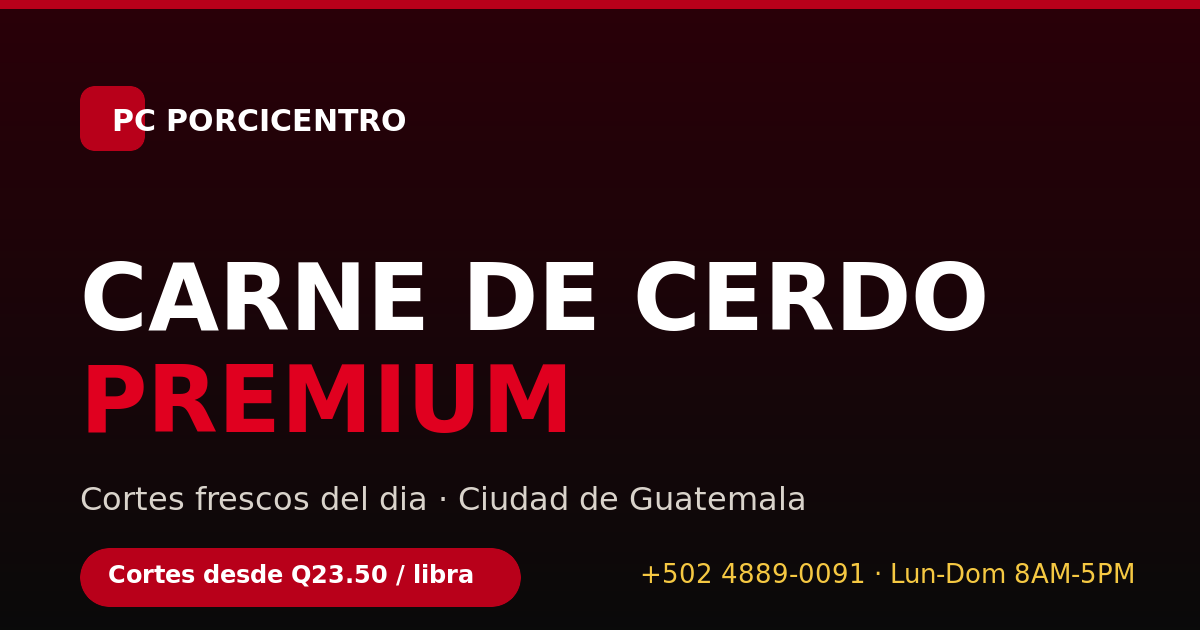
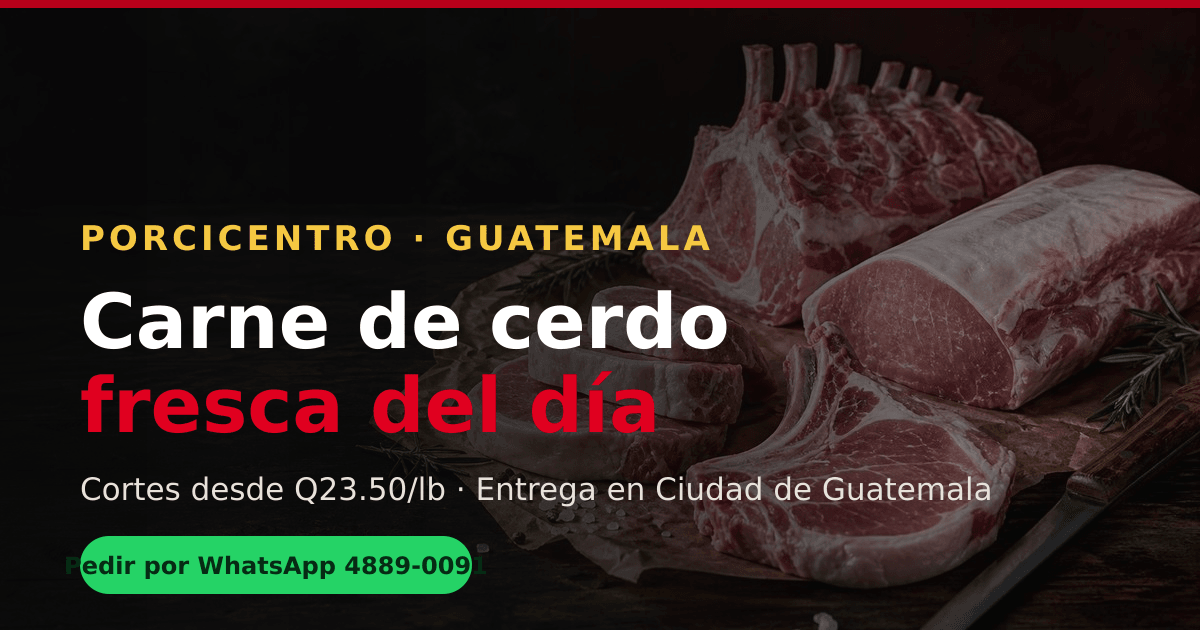
Rediseño orientado a ventas: fotografía real de producto y llamadas a la acción
Diseño y conversión
- Hero con fotografía real de cortes, titular directo y una nota que quita
  fricción ("sin registro ni tarjeta, confirmas por WhatsApp en un minuto").
- Los indicadores del hero ahora venden: 24 h del rastro a la mesa, 16 cortes
  y 25 lb para envío gratis (el dato se toma de data.js).
- Banda de confianza (frescura <24 h, envío gratis desde 25 lb, pedido por
  WhatsApp, mayoreo para negocios) justo debajo del hero.
- Sección nueva "Pide en 3 pasos" con botonera doble (catálogo / WhatsApp):
  baja el miedo a pedir y empuja a la acción.
- Barra de acción fija en móvil (pedido + WhatsApp con el número visible) y
  botón flotante de WhatsApp en escritorio; aparecen al bajar la página y
  reflejan en vivo cuántos productos llevas.
- Filtros del catálogo pegajosos para no perderlos al recorrer los 16 cortes.

Fotografía de producto
- 9 fotos profesionales generadas para el catálogo (chuleta, costilla, lomo,
  solomillo, nuca, pierna, posta, brazuelo y cabeza) más la del hero, con
  estilo consistente (luz lateral, tabla de madera y pizarra).
- Cada tarjeta usa <picture> con WebP + JPG en 450 y 900 px, srcset, lazy
  loading y dimensiones declaradas: se ve nítido y no salta el diseño.
- og-image rehecha con la foto del hero para que el enlace se vea atractivo
  al compartirlo por WhatsApp.

Tarjetas de producto
- Precio protagonista con unidad y mínimo legible (½ lb), sello "★ Más
  vendido" en el catálogo, zoom suave de la foto al pasar el cursor y
[…]

diff --git a/index.html b/index.html
@@ -78,7 +78,7 @@
 .cuts-grid{display:grid;grid-template-columns:repeat(auto-fill,minmax(270px,1fr));gap:22px}
 .cut-card{background:#fff;border-radius:var(--r-lg);overflow:hidden;box-shadow:var(--shadow-sm);transition:all .35s cubic-bezier(.25,.8,.25,1);display:flex;flex-direction:column;position:relative}
 .cut-card:hover{transform:translateY(-8px);box-shadow:0 24px 56px rgba(0,0,0,.11),0 4px 16px rgba(184,0,26,.09)}
-.cut-img{height:190px;overflow:hidden;background:linear-gradient(135deg,#180004,#2e000a);position:relative;flex-shrink:0;display:flex;align-items:center;justify-content:center;flex-direction:column;gap:8px;color:rgba(255,255,255,.12)}
+.cut-img{height:210px;overflow:hidden;background:linear-gradient(135deg,#180004,#2e000a);position:relative;flex-shrink:0;display:flex;align-items:center;justify-content:center;flex-direction:column;gap:8px;color:rgba(255,255,255,.12)}
 .cut-img-ico{font-size:2.5rem;opacity:.15}
 .cut-img-lbl{font-family:var(--font-c);font-size:.55rem;letter-spacing:2px;text-transform:uppercase;opacity:.3}
 .cut-badge{position:absolute;top:12px;left:12px;font-family:var(--font-c);font-size:.58rem;letter-spacing:1.5px;text-transform:uppercase;font-weight:700;padding:4px 10px;border-radius:100px;z-index:2}
@@ -157,6 +157,34 @@
 .cut-img .cut-img-ico{position:absolute;bottom:10px;right:12px;font-size:1.5rem;opacity:.85;filter:drop-shadow(0 2px 6px rgba(0,0,0,.5))}
 .cut-img{position:relative}
 
+
+/* ── Hero con foto real ─────────────────────────────────── */
+.hero-photo{display:block;position:relative;border-radius:24px;overflow:hidden;border:1px solid rgba(255,255,255,.12);box-shadow:0 30px 90px rgba(0,0,0,.6);transform:rotate(-1.4deg)}
+.hero-photo img{width:100%;height:auto;display:block}
+.hero-photo::after{content:'';position:absolute;inset:0;background:linear-gradient(to top,rgba(10,10,10,.45),transparent 55%)}
+.hero-nota{font-size:.84rem;color:rgba(255,255,255,.5);margin:-14px 0 30px;display:flex;align-items:center;gap:8px}
+.hero-nota::before{content:'✓';color:var(--verde);font-weight:800}
+/* ── Banda de confianza ─────────────────────────────────── */
+.trust{background:var(--carbon);border-bottom:1px solid rgba(255,255,255,.06);padding:34px 24px}
+.trust-wrap{max-width:var(--max-w);margin:0 auto;display:grid;grid-template-columns:repeat(4,1fr);gap:26px}
+.trust-item{display:flex;gap:13px;align-items:flex-start}
+.trust-ico{font-size:1.35rem;line-height:1;flex-shrink:0;filter:grayscale(.15)}
+.trust-t{font-family:var(--font-c);font-size:.78rem;font-weight:700;letter-spacing:.4px;color:#fff;margin-bottom:4px}
+.trust-s{font-size:.78rem;color:rgba(255,255,255,.42);line-height:1.55}
+@media(max-width:980px){.trust-wrap{grid-template-columns:1fr 1fr;gap:22px}}
+@media(max-width:560px){.trust-wrap{grid-template-columns:1fr}}
+/* ── Cómo pedir en 3 pasos ──────────────────────────────── */
+.pasos{padding:100px 24px;background:var(--blanco)}
+.pasos-wrap{max-width:var(--max-w);margin:0 auto}
+.pasos-grid{list-style:none;display:grid;grid-template-columns:repeat(3,1fr);gap:22px;margin-top:48px;counter-reset:paso}
+.paso{position:relative;background:var(--crema);border:1px solid rgba(0,0,0,.05);border-radius:var(--r-lg);padding:34px 28px 30px}
+.paso-n{position:absolute;top:-18px;left:26px;width:44px;height:44px;border-radius:50%;background:var(--rojo);color:#fff;font-family:var(--font-h);font-size:1.3rem;font-weight:900;display:flex;align-items:center;justify-content:center;box-shadow:0 10px 26px rgba(184,0,26,.3)}
+.paso h3{font-family:var(--font-c);font-size:1.02rem;font-weight:800;letter-spacing:.3px;margin:14px 0 10px;color:var(--negro)}
+.paso p{color:var(--gris);font-size:.9rem;line-height:1.75}
+.pasos-cta{display:flex;gap:12px;justify-content:center;flex-wrap:wrap;margin-top:44px}
+.btn-wa{background:#25D366;color:#062B14;border:1.5px solid #25D366}
+.btn-wa:hover{background:#1fb757;border-color:#1fb757;color:#04220f}
+@media(max-width:900px){.pasos-grid{grid-template-columns:1fr}.pasos{padding:80px 24px}}
 </style>
 <!-- PC:JSONLD -->
 <script type="application/ld+json">
@@ -673,22 +701,26 @@
       <h1>CARNE<br>DE <span class="red">CERDO</span><br><span class="stroke">PREMIUM</span></h1>
       <div class="hero-chip"><span>Cortes estándar desde</span><strong><span data-pc-precio="chuleta">Q23.50</span> / lb</strong></div>
       <p class="hero-sub">Cortes frescos seleccionados directamente del rastro. Calidad garantizada para restaurantes, carnicerías y hogares guatemaltecos exigentes.</p>
+      <p class="hero-nota">Sin registro ni tarjeta: armas tu pedido y lo confirmas por WhatsApp en un minuto.</p>
       <div class="hero-btns">
-        <a class="btn btn-primary btn-lg" href="productos.html"><svg viewBox="0 0 24 24"><path d="M6 2L3 6v14a2 2 0 002 2h14a2 2 0 002-2V6l-3-4z"/><line x1="3" y1="6" x2="21" y2="6"/></svg>Ver Catálogo</a>
+        <a class="btn btn-primary btn-lg" href="productos.html"><svg viewBox="0 0 24 24"><path d="M6 2L3 6v14a2 2 0 002 2h14a2 2 0 002-2V6l-3-4z"/><line x1="3" y1="6" x2="21" y2="6"/></svg>Ver cortes y precios</a>
         <a class="btn btn-outline-light btn-lg" href="https://wa.me/50248890091" target="_blank" rel="noopener"><svg viewBox="0 0 24 24"><path d="M22 16.92v3a2 2 0 01-2.18 2 19.79 19.79 0 01-8.63-3.07A19.5 19.5 0 013.07 11a19.79 19.79 0 01-3.07-8.67A2 2 0 012 .18h3a2 2 0 012 1.72c.13.96.36 1.9.7 2.81a2 2 0 01-.45 2.11L6.09 7.91A16 16 0 0013 14.85l1.27-1.27a2 2 0 012.11-.45c.9.34 1.85.57 2.81.7A2 2 0 0121.18 16"/></svg>Hacer Pedido</a>
       </div>
       <div class="hero-stats">
-        <div class="hs"><div class="hs-n">2025</div><div class="hs-l">Año de inicio</div></div>
+        <div class="hs"><div class="hs-n">24 h</div><div class="hs-l">Del rastro a tu mesa</div></div>
         <div class="hs"><div class="hs-n" data-pc-conteo>16</div><div class="hs-l">Cortes disponibles</div></div>
-        <div class="hs"><div class="hs-n">100%</div><div class="hs-l">Carne fresca diaria</div></div>
+        <div class="hs"><div class="hs-n" data-pc-envio>25 lb</div><div class="hs-l">Para envío gratis</div></div>
       </div>
     </div>
     <div class="hero-visual">
       <div class="hero-frame">
         <div class="hero-ring1"></div><div class="hero-ring2"></div>
-        <img class="hero-img" src="img/hero-corte.svg" alt="Corte de cerdo fresco PorciCentro sobre tabla de cocina" loading="eager" decoding="async" width="600" height="600">
+        <picture class="hero-photo">
+          <source type="image/webp" srcset="img/foto/hero-900.webp 900w, img/foto/hero-1600.webp 1600w" sizes="(max-width:1024px) 92vw, 560px">
+          <img src="img/foto/hero-900.jpg" srcset="img/foto/hero-900.jpg 900w, img/foto/hero-1600.jpg 1600w" sizes="(max-width:1024px) 92vw, 560px" alt="Cortes de cerdo frescos PorciCentro sobre tabla de carnicería" width="1600" height="900" fetchpriority="high" decoding="async">
+        </picture>
         <div class="hero-badge1"><div class="hb-n" data-pc-precio="chuleta">Q23.50</div><div class="hb-l">por libra</div></div>
-        <div class="hero-badge2"><div class="hb2"><div class="hb2-dot"></div><div class="hb2-t">Carne fresca hoy</div></div></div>
+        <div class="hero-badge2"><div class="hb2"><div class="hb2-dot"></div><div class="hb2-t">Fresco hoy · del rastro a tu mesa</div></div></div>
       </div>
     </div>
   </div>
@@ -706,6 +738,15 @@
   </div>
 </div>
 
+
+<section class="trust">
+  <div class="trust-wrap">
+    <div class="trust-item"><div class="trust-ico">❄</div><div><div class="trust-t">Frescura de menos de 24 horas</div><div class="trust-s">Del rastro directo a tu cocina, sin congelar</div></div></div>
+    <div class="trust-item"><div class="trust-ico">🚚</div><div><div class="trust-t">Entrega gratis desde 25 lb</div><div class="trust-s">Reparto en Ciudad de Guatemala, lunes a domingo</div></div></div>
+    <div class="trust-item"><div class="trust-ico">💬</div><div><div class="trust-t">Pedido por WhatsApp en 1 minuto</div><div class="trust-s">Sin registro, sin tarjeta, respuesta rápida</div></div></div>
+    <div class="trust-item"><div class="trust-ico">🏪</div><div><div class="trust-t">Mayoreo para negocios</div><div class="trust-s">Restaurantes, carnicerías, comedores y eventos</div></div></div>
+  </div>
+</section>
 <section class="cuts" id="cortes">
   <div class="cuts-wrap">
     <div class="sec-head rv">
@@ -764,6 +805,22 @@
   </div>
 </section>
 
+
+<section class="pasos">
+  <div class="pasos-wrap">
+    <div class="sec-head rv">
+      <div class="sec-kicker"><div class="sec-kicker-line"></div><span>Así de simple</span></div>
+      <h2 class="sec-title">Pide en <em>3 pasos</em></h2>
+      <p class="sec-desc">Sin apps, sin cuentas y sin filas. El precio que ves es el precio que pagas.</p>
+    </div>
+    <ol class="pasos-grid">
+      <li class="paso rv d1"><div class="paso-n">1</div><h3>Arma tu pedido</h3><p>Agrega los cortes y las libras que necesitas desde el catálogo. El carrito calcula el total y el envío gratis.</p></li>
+      <li class="paso rv d2"><div class="paso-n">2</div><h3>Confírmalo por WhatsApp</h3><p>Un toque y se abre WhatsApp con tu pedido escrito. Coordinamos hora, dirección y forma de pago.</p></li>
+      <li class="paso rv d3"><div class="paso-n">3</div><h3>Recibe fresco el mismo día</h3><p>Cortamos y empacamos el día de la entrega, con el peso exacto que pediste.</p></li>
+    </ol>
+    <div class="pasos-cta rv"><a class="btn btn-primary btn-lg" href="productos.html">Empezar mi pedido →</a><a class="btn btn-wa btn-lg" href="https://wa.me/50248890091" target="_blank" rel="noopener">O escríbenos por WhatsApp</a></div>
+  </div>
+</section>
 <section class="pricing">
   <div class="pricing-wrap">
     <div class="sec-head rv"><div class="sec-kicker"><div class="sec-kicker-line"></div><span>Lista de Precios</span></div><h2 class="sec-title">Precios <em>claros</em> y transparentes</h2></div>

diff --git a/shared.js b/shared.js
@@ -96,22 +96,36 @@
       else el.textContent = CFG.MONEDA + fmt(p.price);
     });
     document.querySelectorAll('[data-pc-conteo]').forEach(function (el) { el.textContent = PRODUCTOS.length; });
+    document.querySelectorAll('[data-pc-envio]').forEach(function (el) { el.textContent = CFG.ENVIO_GRATIS_LB + ' lb'; });
   };
 
   /* ── TARJETA DE PRODUCTO (una sola implementación) ────── */
-  window.pcProductCard = function (p) {
+  window.pcProductCard = function (p, opciones) {
+    var mostrarSello = p.destacado && !(opciones && opciones.sinSello);
     var bc = p.cat === 'especial' ? 'badge-spc' : p.cat === 'economico' ? 'badge-eco' : 'badge-std';
+    var foto = p.img && p.img.indexOf('.svg') === -1 ? p.img : '';
+    var alt = p.name + ' fresco de PorciCentro' + (p.unit === 'libra' ? ', precio por libra' : '');
+    var media = foto
+      ? '<picture>' +
+          '<source type="image/webp" srcset="' + foto + '-450.webp 450w, ' + foto + '-900.webp 900w" sizes="(max-width:640px) 92vw, (max-width:1100px) 44vw, 380px">' +
+          '<img src="' + foto + '-450.jpg" srcset="' + foto + '-450.jpg 450w, ' + foto + '-900.jpg 900w" sizes="(max-width:640px) 92vw, (max-width:1100px) 44vw, 380px" alt="' + alt + '" width="900" height="675" loading="lazy" decoding="async">' +
+        '</picture>'
+      : '<img class="cut-img-arte" src="' + (p.img || 'img/asado.svg') + '" alt="' + alt + '" loading="lazy" decoding="async">';
+
     return '<div class="cut-card rv" data-cat="' + p.cat + '" data-id="' + p.id + '">' +
-      '<div class="cut-img">' +
-        '<img src="' + (p.img || 'img/asado.svg') + '" alt="' + p.name + ' — corte de cerdo fresco" loading="lazy" decoding="async">' +
-        '<div class="cut-img-ico" aria-hidden="true">' + (p.emoji || '🥩') + '</div>' +
+      '<div class="cut-img">' + media +
         '<div class="cut-badge ' + bc + '">' + window.PC.precioConEtiqueta(p) + '</div>' +
+        (mostrarSello ? '<div class="cut-flag">★ Más vendido</div>' : '') +
       '</div>' +
       '<div class="cut-body">' +
         '<h3 class="cut-name">' + p.name + '</h3>' +
         '<p class="cut-desc">' + p.desc + '</p>' +
         '<div class="cut-foot">' +
-          '<div><div class="cut-price">Q' + fmt(p.price) + '</div><span class="cut-unit">/ ' + p.priceUnit + '</span></div>' +
+          '<div class="cut-precio">' +
+            '<div class="cut-price">Q' + fmt(p.price) + '</div>' +
+            '<span class="cut-unit">/ ' + p.priceUnit + '</span>' +
+            '<span class="cut-min">mínimo ' + (p.min === 0.5 ? '½' : fmt(p.min)) + ' ' + p.priceUnit + '</span>' +
+          '</div>' +
           '<div class="cut-acts">' +
             '<div class="qty-row">' +
               '<button class="q-btn" type="button" aria-label="Quitar ' + p.step + ' ' + p.priceUnit + ' de ' + p.name + '" onclick="pcQty(\'' + p.id + '\',-' + p.step + ')">−</button>' +
@@ -129,7 +143,7 @@
     var el = typeof contenedor === 'string' ? document.getElementById(contenedor) : contenedor;
     if (!el) return;
     var lista = soloDestacados ? PRODUCTOS.filter(function (p) { return p.destacado; }) : PRODUCTOS;
-    el.innerHTML = lista.map(window.pcProductCard).join('');
+    el.innerHTML = lista.map(function (p) { return window.pcProductCard(p, { sinSello: !!soloDestacados }); }).join('');
   };
 
   window.pcQty = function (id, delta) {
@@ -236,6 +250,11 @@
     if (badge) {
       badge.textContent = list.length;
       badge.classList.toggle('on', list.length > 0);
+    }
+    var cta = document.getElementById('pc-cta-count');
+    if (cta) {
+      cta.textContent = list.length;
+      cta.parentElement.classList.toggle('on', list.length > 0);
     }
     var cc = document.getElementById('cart-content');
     var cf = document.getElementById('cart-ft');
@@ -463,6 +482,46 @@
     }
   };
 
+  /* ── LLAMADA A LA ACCIÓN SIEMPRE A LA VISTA ───────────── */
+  // En móvil: barra inferior con "Pedir por WhatsApp" y el pedido.
+  // En escritorio: botón flotante de WhatsApp. Aparecen al bajar.
+  window.pcEnsureCTA = function () {
+    if (!document.querySelector('.nav') || document.getElementById('pc-cta-bar')) return;
+
+    var barra = document.createElement('div');
+    barra.className = 'pc-cta-bar';
+    barra.id = 'pc-cta-bar';
+    barra.innerHTML =
+      '<button class="pc-cta-cart" type="button" aria-label="Ver tu pedido" onclick="pcOpenCart()">' +
+        '<svg viewBox="0 0 24 24" aria-hidden="true"><path d="M6 2L3 6v14a2 2 0 002 2h14a2 2 0 002-2V6l-3-4z"/><line x1="3" y1="6" x2="21" y2="6"/><path d="M16 10a4 4 0 01-8 0"/></svg>' +
+        '<span class="pc-cta-count" id="pc-cta-count">0</span>' +
+      '</button>' +
+      '<a class="pc-cta-main" href="' + 'https://wa.me/' + CFG.WHATSAPP + '" target="_blank" rel="noopener">' +
+        '<svg viewBox="0 0 24 24" aria-hidden="true"><path d="M21 11.5a8.38 8.38 0 01-.9 3.8 8.5 8.5 0 01-7.6 4.7 8.38 8.38 0 01-3.8-.9L3 21l1.9-5.7a8.38 8.38 0 01-.9-3.8 8.5 8.5 0 014.7-7.6 8.38 8.38 0 013.8-.9h.5a8.48 8.48 0 018 8v.5z"/></svg>' +
+        'Pedir por WhatsApp <em>' + CFG.TEL_DISPLAY + '</em>' +
+      '</a>';
+    document.body.appendChild(barra);
+
+    var flotante = document.createElement('a');
+    flotante.className = 'pc-wa-float';
+    flotante.href = 'https://wa.me/' + CFG.WHATSAPP;
+    flotante.target = '_blank';
+    flotante.rel = 'noopener';
+    flotante.setAttribute('aria-label', 'Escribir por WhatsApp al ' + CFG.TEL_DISPLAY);
+    flotante.innerHTML =
+      '<svg viewBox="0 0 24 24" aria-hidden="true"><path d="M21 11.5a8.38 8.38 0 01-.9 3.8 8.5 8.5 0 01-7.6 4.7 8.38 8.38 0 01-3.8-.9L3 21l1.9-5.7a8.38 8.38 0 01-.9-3.8 8.5 8.5 0 014.7-7.6 8.38 8.38 0 013.8-.9h.5a8.48 8.48 0 018 8v.5z"/></svg>' +
+      '<span class="pc-wa-tip">¿Dudas? Escríbenos<strong>' + CFG.TEL_DISPLAY + '</strong></span>';
+    document.body.appendChild(flotante);
+
+    var alScroll = function () {
+      var visible = window.scrollY > 420;
+      barra.classList.toggle('on', visible);
+      flotante.classList.toggle('on', visible);
+    };
+    window.addEventListener('scroll', alScroll, { passive: true });
+    alScroll();
+  };
+
   /* ── INICIALIZACIÓN ───────────────────────────────────── */
   document.addEventListener('keydown', function (e) {
     if (e.key !== 'Escape') return;
@@ -474,6 +533,7 @@
 
   document.addEventListener('DOMContentLoaded', function () {
     window.pcEnsureCartUI();
+    window.pcEnsureCTA();
     window.pcHydrateLinks();
     window.pcHydratePrecios();
     window.pcInitNav();

diff --git a/shared.css b/shared.css
@@ -583,3 +583,94 @@ ul, ol { list-style:none; }
 /* Tarjetas de producto: emoji destacado en el hueco de foto */
 .cut-img-ico { font-size:3rem; opacity:.55; }
 .cut-img-lbl { color:rgba(255,255,255,.45); }
+
+/* ============================================================
+   TARJETAS DE PRODUCTO, PRECIOS Y LLAMADAS A LA ACCIÓN
+   (una sola definición para la home y el catálogo)
+   ============================================================ */
+.cut-img { position:relative; overflow:hidden; }
+.cut-img picture { position:absolute; inset:0; display:block; }
+.cut-img img, .cut-img-arte { width:100%; height:100%; object-fit:cover; display:block; }
+.cut-img img { transition:transform .55s cubic-bezier(.25,.8,.25,1); }
+.cut-card:hover .cut-img img { transform:scale(1.06); }
+.cut-img::after {
+  content:''; position:absolute; inset:0; pointer-events:none;
+  background:linear-gradient(to top, rgba(10,10,10,.55) 0%, rgba(10,10,10,0) 46%);
+}
+/* Sello de destacado */
+.cut-flag {
+  position:absolute; top:12px; right:12px; z-index:3;
+  background:#F5C842; color:#231a00;
+  font-family:var(--font-c); font-size:.6rem; font-weight:800;
+  letter-spacing:1.4px; text-transform:uppercase;
+  padding:5px 11px; border-radius:100px;
+  box-shadow:0 6px 18px rgba(0,0,0,.28);
+}
+/* Bloque de precio: el dato que más se busca */
+.cut-precio { display:flex; flex-direction:column; gap:1px; }
+.cut-precio .cut-price { font-size:1.5rem; }
+.cut-precio .cut-unit { display:block; }
+.cut-min {
+  font-family:var(--font-c); font-size:.6rem; letter-spacing:1.2px;
+  text-transform:uppercase; color:var(--gris); margin-top:4px;
+}
+.add-btn { white-space:nowrap; }
+
+/* ── Barra de acción fija (móvil) ─────────────────────────── */
+.pc-cta-bar {
+  position:fixed; left:0; right:0; bottom:0; z-index:900;
+  display:none; align-items:center; gap:10px;
+  padding:10px 12px calc(10px + env(safe-area-inset-bottom, 0px));
+  background:rgba(12,12,12,.94); backdrop-filter:blur(12px);
+  border-top:1px solid rgba(255,255,255,.08);
+  transform:translateY(120%); transition:transform .35s cubic-bezier(.25,.8,.25,1);
+}
+.pc-cta-bar.on { transform:none; }
+.pc-cta-cart {
+  position:relative; flex-shrink:0; width:52px; height:52px; border-radius:14px;
+  background:rgba(255,255,255,.07); border:1px solid rgba(255,255,255,.12);
+  display:flex; align-items:center; justify-content:center; cursor:pointer;
+}
+.pc-cta-cart svg { width:22px; height:22px; stroke:#fff; fill:none; stroke-width:1.7; }
+.pc-cta-count {
+  position:absolute; top:-6px; right:-6px; min-width:20px; height:20px; padding:0 5px;
+  border-radius:100px; background:var(--gris); color:#fff;
+  font-family:var(--font-c); font-size:.68rem; font-weight:800;
+  display:flex; align-items:center; justify-content:center;
+  transition:background .25s;
+}
+.pc-cta-cart.on .pc-cta-count { background:var(--rojo); }
+.pc-cta-main {
+  flex:1; min-height:52px; border-radius:14px;
+  background:#25D366; color:#062B14;
+  display:flex; align-items:center; justify-content:center; gap:9px;
+  font-family:var(--font-c); font-weight:800; font-size:.78rem;
+  letter-spacing:1.4px; text-transform:uppercase; text-align:center;
+  box-shadow:0 10px 26px rgba(37,211,102,.28);
+}
+.pc-cta-main em { font-style:normal; opacity:.72; font-size:.72rem; letter-spacing:.6px; text-transform:none; }
+.pc-cta-main svg { width:20px; height:20px; fill:#062B14; flex-shrink:0; }
+@media (max-width:860px) { .pc-cta-bar { display:flex; } }
+
+/* ── Botón flotante de WhatsApp (escritorio) ──────────────── */
+.pc-wa-float {
+  position:fixed; right:22px; bottom:24px; z-index:900;
+  display:flex; align-items:center; gap:0;
+  background:#25D366; color:#062B14; border-radius:100px;
+  padding:15px; box-shadow:0 14px 34px rgba(37,211,102,.32), 0 3px 10px rgba(0,0,0,.22);
+  transform:translateY(140%); transition:transform .35s cubic-bezier(.25,.8,.25,1), gap .3s, padding .3s;
+}
+.pc-wa-float.on { transform:none; }
+.pc-wa-float svg { width:26px; height:26px; fill:#062B14; flex-shrink:0; }
+.pc-wa-tip {
+  max-width:0; overflow:hidden; white-space:nowrap;
+  font-family:var(--font-c); font-size:.72rem; font-weight:700; line-height:1.35;
+  transition:max-width .35s cubic-bezier(.25,.8,.25,1), margin .35s;
+}
+.pc-wa-tip strong { display:block; font-family:var(--font-b); font-size:.8rem; letter-spacing:.3px; }
+.pc-wa-float:hover { gap:12px; padding-right:22px; }
+.pc-wa-float:hover .pc-wa-tip { max-width:230px; margin-left:2px; }
+@media (max-width:860px) { .pc-wa-float { display:none; } }
+
+/* Compensar la barra fija al final de la página */
+@media (max-width:860px) { body { padding-bottom:76px; } }

diff --git a/data.js b/data.js
@@ -31,25 +31,25 @@
   // unit: 'libra' | 'unidad'   ·  min: cantidad mínima  ·  step: incremento
   var CATALOGO = [
     // ── Cortes estándar Q23.50/lb ──────────────────────────
-    { id:'chuleta',   name:'Chuleta de Cerdo',   cat:'cerdo', price:23.50, priceUnit:'lb', unit:'libra', min:0.5, step:0.5, img:'img/chuleta.svg', emoji:'🥩', destacado:true,
+    { id:'chuleta',   name:'Chuleta de Cerdo',   cat:'cerdo', price:23.50, priceUnit:'lb', unit:'libra', min:0.5, step:0.5, img:'img/foto/chuleta', emoji:'🥩', destacado:true,
       desc:'Chuleta fresca con hueso, ideal para asar a la plancha o al horno. Jugosa y sabrosa.' },
-    { id:'brazuelo',  name:'Posta de Brazuelo',  cat:'cerdo', price:23.50, priceUnit:'lb', unit:'libra', min:0.5, step:0.5, img:'img/asado.svg', emoji:'🍖',
+    { id:'brazuelo',  name:'Posta de Brazuelo',  cat:'cerdo', price:23.50, priceUnit:'lb', unit:'libra', min:0.5, step:0.5, img:'img/foto/brazuelo', emoji:'🍖',
       desc:'Posta del brazuelo delantero, perfecta para guisos, estofados y preparaciones largas.' },
-    { id:'costilla',  name:'Costilla de Cerdo',  cat:'cerdo', price:23.50, priceUnit:'lb', unit:'libra', min:0.5, step:0.5, img:'img/costilla.svg', emoji:'🍖', destacado:true,
+    { id:'costilla',  name:'Costilla de Cerdo',  cat:'cerdo', price:23.50, priceUnit:'lb', unit:'libra', min:0.5, step:0.5, img:'img/foto/costilla', emoji:'🍖', destacado:true,
       desc:'Costilla fresca con hueso, ideal para parrilla, horno y recetas festivas.' },
-    { id:'lomocinta', name:'Lomo de Cinta',      cat:'cerdo', price:23.50, priceUnit:'lb', unit:'libra', min:0.5, step:0.5, img:'img/lomo.svg', emoji:'🥩', destacado:true,
+    { id:'lomocinta', name:'Lomo de Cinta',      cat:'cerdo', price:23.50, priceUnit:'lb', unit:'libra', min:0.5, step:0.5, img:'img/foto/lomocinta', emoji:'🥩', destacado:true,
       desc:'Lomo de cinta magro y tierno, perfecto para medallones, escalopes y recetas gourmet.' },
-    { id:'nuca',      name:'Nuca de Cerdo',      cat:'cerdo', price:23.50, priceUnit:'lb', unit:'libra', min:0.5, step:0.5, img:'img/nuca.svg', emoji:'🐖',
+    { id:'nuca',      name:'Nuca de Cerdo',      cat:'cerdo', price:23.50, priceUnit:'lb', unit:'libra', min:0.5, step:0.5, img:'img/foto/nuca', emoji:'🐖',
       desc:'Nuca jugosa con buena infiltración de grasa. Excelente para asados y cocidos largos.' },
-    { id:'pierna',    name:'Pierna de Cerdo',    cat:'cerdo', price:23.50, priceUnit:'lb', unit:'libra', min:0.5, step:0.5, img:'img/pierna.svg', emoji:'🍖',
+    { id:'pierna',    name:'Pierna de Cerdo',    cat:'cerdo', price:23.50, priceUnit:'lb', unit:'libra', min:0.5, step:0.5, img:'img/foto/pierna', emoji:'🍖',
       desc:'Pierna fresca entera o en piezas. Perfecta para hornear en celebraciones y tamales.' },
-    { id:'posta',     name:'Posta de Cerdo',     cat:'cerdo', price:23.50, priceUnit:'lb', unit:'libra', min:0.5, step:0.5, img:'img/asado.svg', emoji:'🥩',
+    { id:'posta',     name:'Posta de Cerdo',     cat:'cerdo', price:23.50, priceUnit:'lb', unit:'libra', min:0.5, step:0.5, img:'img/foto/posta', emoji:'🥩',
       desc:'Posta versátil, limpia y sin hueso. Ideal para guisos, picadillo y preparaciones rápidas.' },
-    { id:'solomillo', name:'Solomillo de Cerdo', cat:'cerdo', price:23.50, priceUnit:'lb', unit:'libra', min:0.5, step:0.5, img:'img/lomo.svg', emoji:'🥩',
+    { id:'solomillo', name:'Solomillo de Cerdo', cat:'cerdo', price:23.50, priceUnit:'lb', unit:'libra', min:0.5, step:0.5, img:'img/foto/solomillo', emoji:'🥩',
       desc:'El corte más noble del cerdo. Suave, magro y exquisito para preparaciones especiales.' },
 
     // ── Especialidades ─────────────────────────────────────
-    { id:'cabeza',     name:'Cabeza de Cerdo',     cat:'especial', price:140, priceUnit:'c/u', unit:'unidad', min:1,   step:1,   img:'img/cabeza.svg', emoji:'🐷',
+    { id:'cabeza',     name:'Cabeza de Cerdo',     cat:'especial', price:140, priceUnit:'c/u', unit:'unidad', min:1,   step:1,   img:'img/foto/cabeza', emoji:'🐷',
       desc:'Cabeza entera de cerdo. Perfecta para tamales, queso de puerco y preparaciones festivas.' },
 
     { id:'patitas',    name:'Patitas de Cerdo',    cat:'especial', price:8,   priceUnit:'c/u', unit:'unidad', min:1,   step:1,   img:'img/patitas.svg', emoji:'🐾', destacado:true,

diff --git a/productos.html b/productos.html
@@ -31,14 +31,14 @@
 <style>
 .catalog{padding:100px 24px;background:var(--crema)}
 .cat-wrap{max-width:var(--max-w);margin:0 auto}
-.filters{display:flex;gap:8px;flex-wrap:wrap;justify-content:center;margin-bottom:48px}
+.filters{position:sticky;top:64px;z-index:60;background:var(--crema);padding:14px 0;display:flex;gap:8px;flex-wrap:wrap;justify-content:center;margin-bottom:48px}
 .f-btn{font-family:var(--font-c);font-size:.7rem;letter-spacing:2px;text-transform:uppercase;font-weight:700;padding:9px 20px;border-radius:100px;border:1.5px solid rgba(13,13,13,.14);color:var(--gris);background:#fff;transition:all .22s;cursor:pointer}
 .f-btn:hover,.f-btn.active{background:var(--rojo);color:#fff;border-color:var(--rojo)}
 .prod-grid{display:grid;grid-template-columns:repeat(auto-fill,minmax(270px,1fr));gap:22px}
 .cut-card{background:#fff;border-radius:var(--r-lg);overflow:hidden;box-shadow:var(--shadow-sm);transition:all .35s cubic-bezier(.25,.8,.25,1);display:flex;flex-direction:column;position:relative}
 .cut-card:hover{transform:translateY(-8px);box-shadow:0 24px 56px rgba(0,0,0,.11),0 4px 16px rgba(184,0,26,.09)}
 .cut-card.hidden{display:none}
-.cut-img{height:190px;overflow:hidden;position:relative;flex-shrink:0;display:flex;align-items:center;justify-content:center;flex-direction:column;gap:8px;background:linear-gradient(135deg,#180004,#2e000a);color:rgba(255,255,255,.12)}
+.cut-img{height:232px;overflow:hidden;position:relative;flex-shrink:0;display:flex;align-items:center;justify-content:center;flex-direction:column;gap:8px;background:linear-gradient(135deg,#180004,#2e000a);color:rgba(255,255,255,.12)}
 .cut-img-ico{font-size:2.5rem;opacity:.15}
 .cut-img-lbl{font-family:var(--font-c);font-size:.55rem;letter-spacing:2px;text-transform:uppercase;opacity:.3}
 .cut-badge{position:absolute;top:12px;left:12px;font-family:var(--font-c);font-size:.58rem;letter-spacing:1.5px;text-transform:uppercase;font-weight:700;padding:4px 10px;border-radius:100px;z-index:2}
